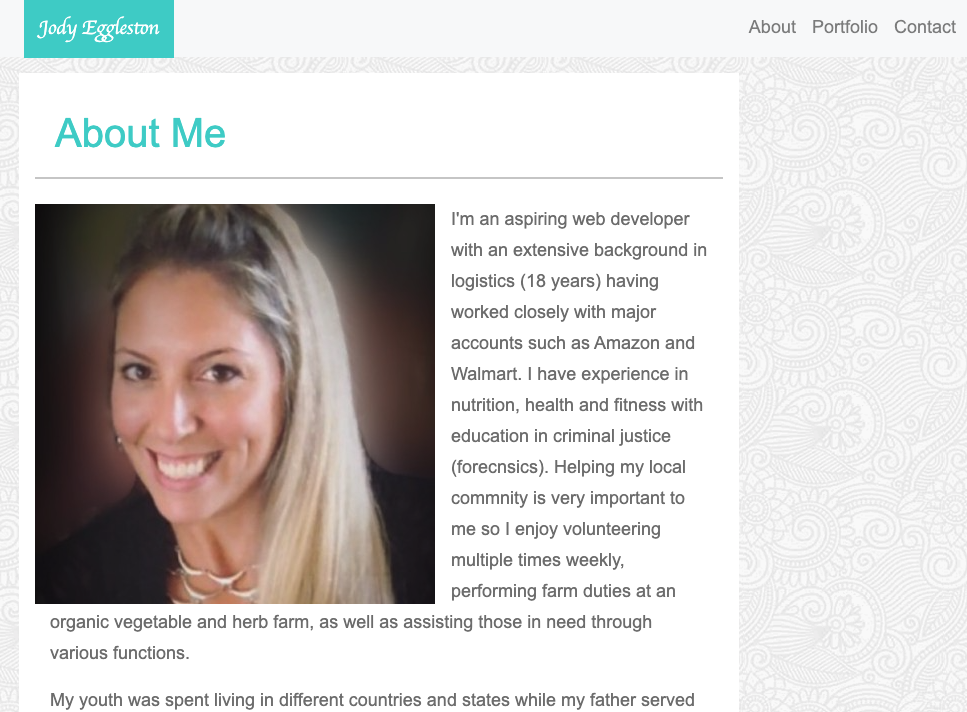
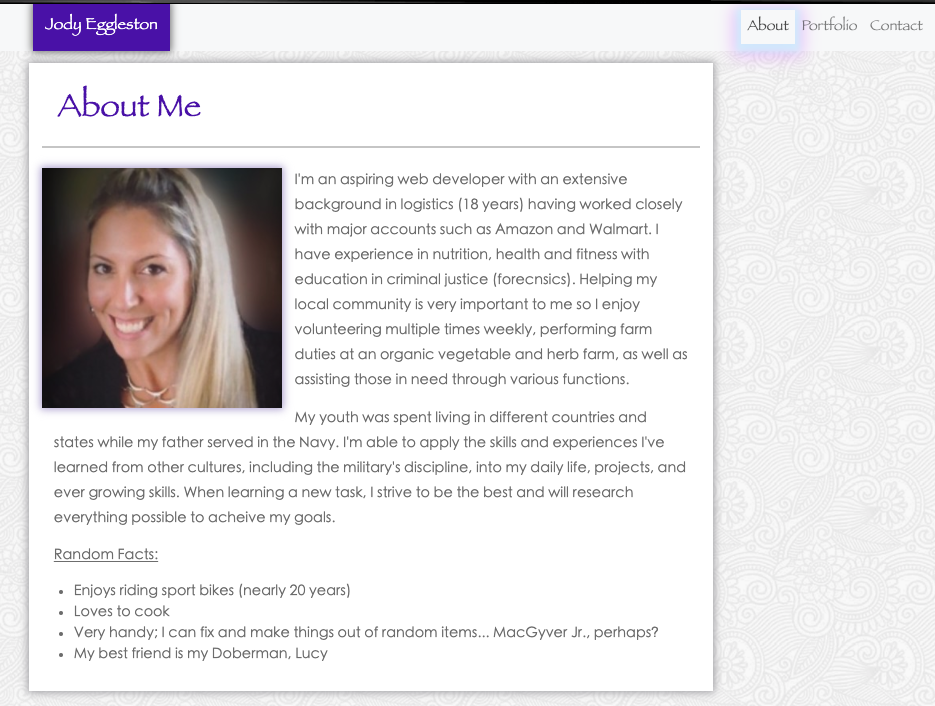
updated readme with new screenshot and additional info

diff --git a/README.md b/README.md
@@ -19,4 +19,4 @@ This page will continue to be updated with information of projects completed.
 Contains my contact info and social media link along with an easy fill form.
 
 ### License
-None
+© Copyright 2020 Jody Eggleston
